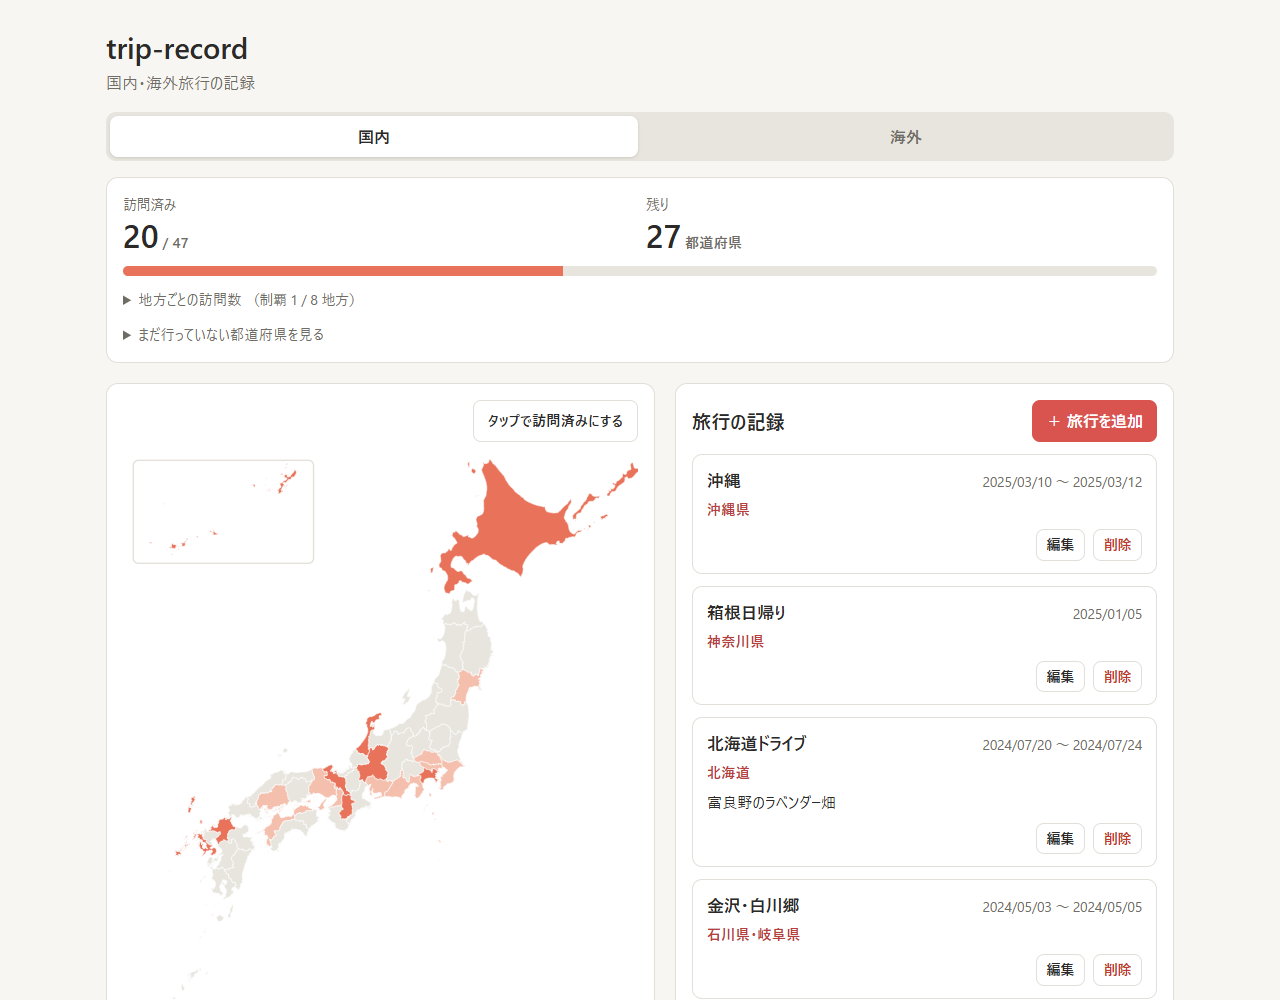
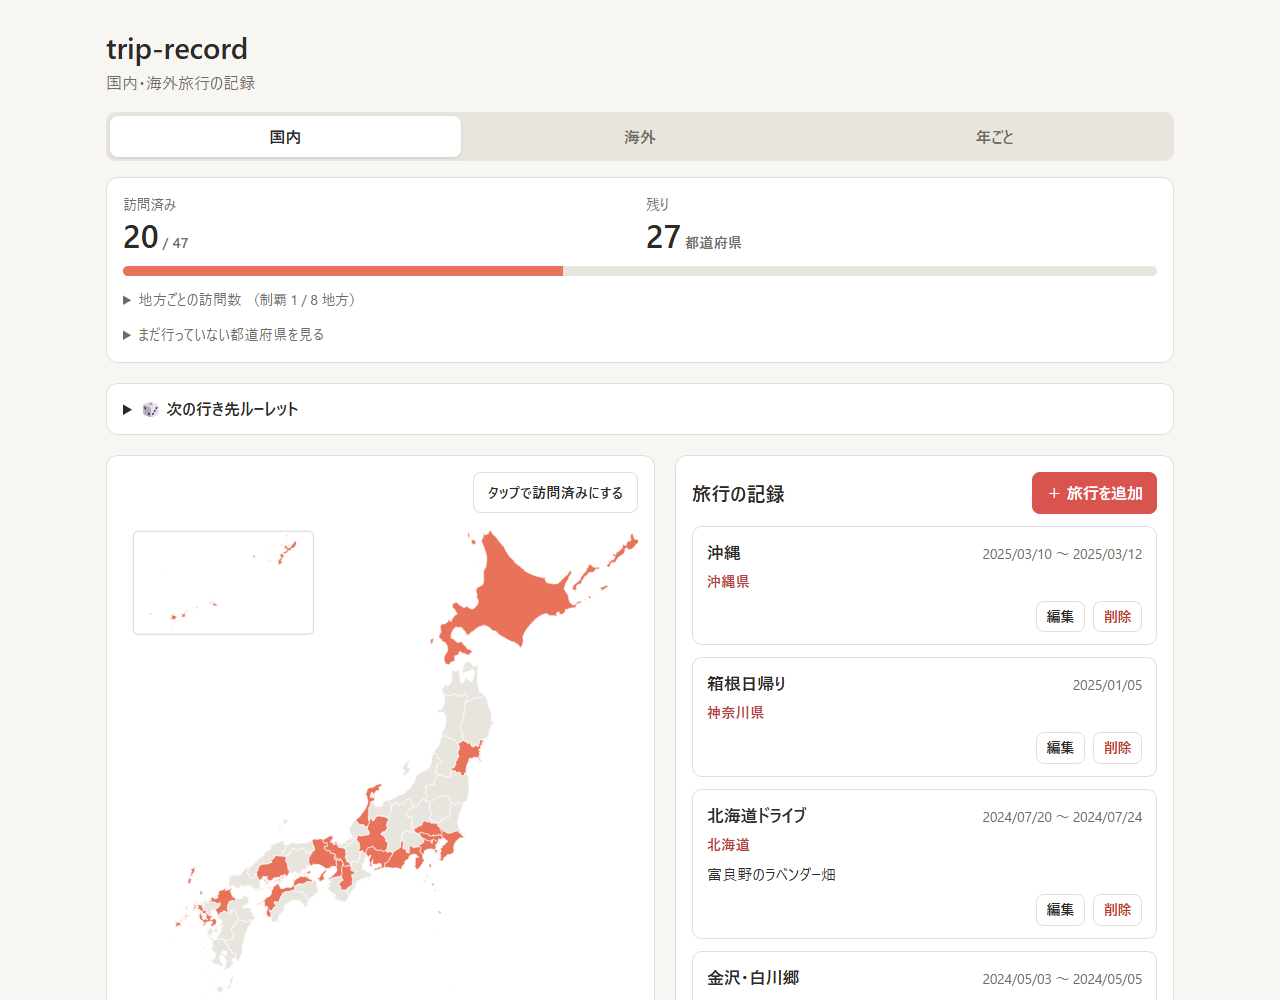
README を最新の画面と機能に合わせて更新
- 冒頭に主な機能の一覧を追加
- スクリーンショットを撮り直し（地図の色の統一、ルーレット、年ごとタブを反映）
- 年ごとタブとスマホのルーレット画面のスクリーンショットを追加
- ファイル構成の App.tsx の説明を更新

diff --git a/README.md b/README.md
@@ -8,9 +8,20 @@
 
 初めて開いたときは「サンプルデータで試す」から、記録が入った状態の画面を見られます（サンプルの変更は保存されません）。
 
-| 国内（パソコン） | 海外（パソコン） | スマホ |
-| --- | --- | --- |
-| ![国内タブ](docs/screenshots/desktop-domestic.png) | ![海外タブ](docs/screenshots/desktop-overseas.png) | ![スマホの国内タブ](docs/screenshots/mobile-domestic.png) |
+### 主な機能
+
+- 🗾 **地図に塗る**：行った都道府県・国（208の国・地域）を日本地図・世界地図に色付け
+- 📊 **制覇までの残り**：訪問数・残りの数、地方・大陸ごとの制覇状況
+- ✈ **総移動距離**：海外旅行の移動距離の合計と「地球何周分」
+- 🎲 **次の行き先ルーレット**：行ったことのない場所（またはすべて）からランダムに決める
+- 📅 **年ごとのまとめ**：年ごとの旅行回数・訪れた場所・初めて訪れた場所
+- 📱 **スマホのホーム画面に追加**：アプリのように起動でき、オフラインでも開ける
+
+| 国内（パソコン） | 海外（パソコン） |
+| --- | --- |
+| ![国内タブ：日本地図と旅行記録](docs/screenshots/desktop-domestic.png) | ![海外タブ：世界地図と総移動距離](docs/screenshots/desktop-overseas.png) |
+| **年ごと（パソコン）** | **ルーレット（スマホ）** |
+| ![年ごとタブ：年ごとのまとめ](docs/screenshots/desktop-yearly.png) | ![スマホの国内タブ：次の行き先ルーレット](docs/screenshots/mobile-domestic.png) |
 
 ## 機能
 
@@ -109,7 +120,7 @@ npm run lint    # リント
 
 ```
 src/
-├── App.tsx                    画面全体（国内・海外タブ、バックアップ）
+├── App.tsx                    画面全体（国内・海外・年ごとのタブ、お試しモード、バックアップ）
 ├── places.ts                  都道府県・国を共通に扱う「場所」の型
 ├── records.ts                 旅行記録と「行ったことがある」の印の保存・集計（国内・海外共通）
 ├── backup.ts                  バックアップファイルの作成・読み込み・統合
